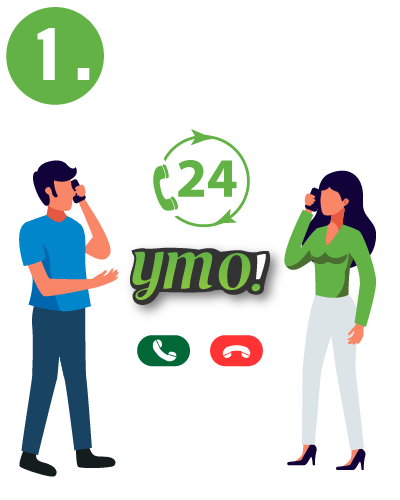
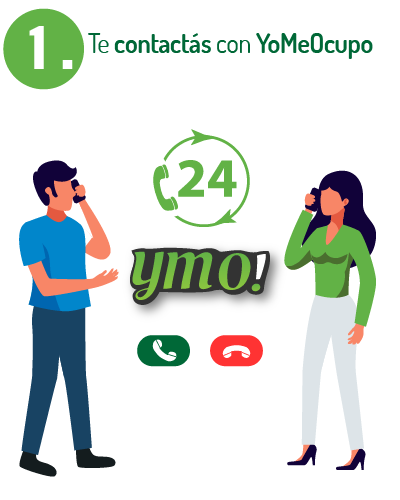
Version 1.2.4 / retouch infograf-vignete / text / contact info details

diff --git a/src/index.html b/src/index.html
@@ -50,16 +50,17 @@
                 <!--<button class="rd-navbar-toggle" data-rd-navbar-toggle=".rd-navbar-nav-wrap"><span></span></button>-->
                 <!-- RD Navbar Brand-->
                 <div class="rd-navbar-brand"> <a class="brand" href="index.html">
-                  <img class="lg-hidden" src="images/logo_ymo.png" alt="logo_yomeocupo"/>
+                  <img class="lg-hidden" src="images/logo_ymo.png" alt="logo_ymo"/>
+                  <img class="lg-hidden2" src="images/logo_yomeocupo.png" alt="logo_yomeocupo" width="600" height="auto"/>
 
                 </a></div>
               </div>
               <div class="rd-navbar-element">
                 <!-- RD Navbar Nav-->
                 <div class="rd-navbar pull-right">
-                  <a href="tel:+5491139856471"><i class="link link-social mdi mdi-phone"></i>0800</a> |
-                  <a class="big" href="mailto:info@yomeocupo.pro"><i class=" link link-social mdi mdi-email mdi-24px"></i></a> |
-                  <a href="https://wa.me/5491139856471?text=Hola,%20estoy%20navegando%20la%20web%20http://yomeocupo.pro%20y%20tengo%20una%20consulta:" target="_blank"> <i class=" link mdi mdi-whatsapp mdi-24px"></i></a>
+                  <a href="tel:08003451739"><i class="link link-social mdi mdi-24px mdi-phone"></i><strong style="font-size: 1.2em">0800</strong></a> 
+                  <a class="big" href="mailto:info@yomeocupo.pro"><i class=" link link-social mdi mdi-email mdi-24px"></i></a> 
+                  <a href="https://wa.me/5491139856471?text=Hola,%20estoy%20interesado%20en%20http://yomeocupo.pro%20y%20tengo%20una%20consulta:" target="_blank"> <i class=" link mdi mdi-whatsapp mdi-24px"></i></a>
                 </div>
               </div>
 
@@ -81,7 +82,7 @@
 
 
                 <div class="form-button form-shadow block-11 ot50">
-                  <button class="button button-block button-primary button-winona" type="submit"> <a href="https://wa.me/5491139856471?text=Hola,%20estoy%20navegando%20la%20web%20http://yomeocupo.pro%20y%20tengo%20una%20consulta:" target="_blank"> <i class="link link-social-1 mdi mdi-whatsapp"></i> Chatea con nosotros</a></button>
+                  <button class="button button-block button-primary button-winona" type="submit"> <a href="https://wa.me/5491139856471?text=Hola,%20estoy%20interesado%20en%20http://yomeocupo.pro%20y%20tengo%20una%20consulta:" target="_blank"> <i class="link link-social-1 mdi mdi-whatsapp"></i> Chatea con nosotros</a></button>
                 </div>
                 <!-- arrows -->
                 <div class="content-arrow">
@@ -112,29 +113,29 @@
         <div class="row">
 
         <div class="gallery_product col-lg-4 col-md-4 col-sm-4 col-xs-6 filter hdpe  ">
-                <img src="images/infograf-01.png" class="img-responsive"> <p>Te contactas con YoMeOcupo</p>
+                <img src="images/infograf-01.png" class="img-responsive">
             </div>
 
             <div class="gallery_product col-lg-4 col-md-4 col-sm-4 col-xs-6 filter sprinkle">
-                <img src="images/infograf-02.png" class="img-responsive"><p>Nos envias fotos y detalles de tu producto</p>
+                <img src="images/infograf-02.png" class="img-responsive">
             </div>
 
             <div class="gallery_product col-lg-4 col-md-4 col-sm-4 col-xs-6 filter hdpe">
-                <img src="images/infograf-03.png" class="img-responsive"><p>Lo publicamos en todos lados</p>
+                <img src="images/infograf-03.png" class="img-responsive">
             </div>
           </div>
         <div class="row">
 
             <div class="gallery_product col-lg-4 col-md-4 col-sm-4 col-xs-6 filter irrigation">
-                <img src="images/infograf-04.png" class="img-responsive"><p>Conseguimos al mejor comprador</p>
+                <img src="images/infograf-04.png" class="img-responsive">
             </div>
 
             <div class="gallery_product col-lg-4 col-md-4 col-sm-4 col-xs-6 filter spray">
-                <img src="images/infograf-05.png" class="img-responsive"><p>Entreg&aacute;s el producto y cobras</<p>
+                <img src="images/infograf-05.png" class="img-responsive">
             </div>
 
             <div class="gallery_product col-lg-4 col-md-4 col-sm-4 col-xs-6 filter spray">
-                <img src="images/infograf-066.png" class="img-responsive"><p>Pag&aacute;s la comisión a YoMeOcupo.</p>
+                <img src="images/infograf-066.png" class="img-responsive">
             </div>
         </div>
 
@@ -152,34 +153,28 @@
       <!-- What We Do-->
       <section class="section section-xl bg-gray-900" id="what-we-do">
         <div class="container">
-          <div class="row row-50 justify-content-center justify-content-xl-between align-items-center">
+          <div class="row row-50 justify-content-xl-between">
             <div class="col-sm-10 col-lg-5">
-              <h3>Dej&aacute;nos sistematizar tu gesti&oacute;n de Clientes</h3>
+              <h3> <span class="mdi mdi-36px mdi-account-multiple-plus "></span> Trabajamos para vos</h3>
               <!-- Bootstrap tabs-->
               <div class="tabs-custom tabs-horizontal tabs-line tabs-line_1 block-8" id="tabs-1">
                 <!-- Nav tabs-->
-                <ul class="nav nav-tabs">
-                  <li class="nav-item" role="presentation"><a class="nav-link active" href="#tabs-1-1" data-toggle="tab">|<span class="mdi mdi-account-multiple-plus"></span>Nuestro equipo</a></li>
-                  <li class="nav-item" role="presentation"><a class="nav-link" href="#tabs-1-2" data-toggle="tab">|<span class="mdi mdi-margin"></span>COMISIONES:</a></li>
-                </ul>
+                
                 <!-- Tab panes-->
                 <div class="tab-content">
                   <div class="tab-pane fade show active" id="tabs-1-1">
-                    <p class="big">Trabajamos para vos y nos encargamos de conseguirte el mejor comprador para tu producto. Somos un equipo de profesionales abocados a la comercialización de productos de particulares.</p>
+                    <p class="big">Somos un equipo de profesionales abocados a la comercialización de productos de particulares.</p>
                     <ul class="list-marked list-marked_secondary">
                       <li>No solo lo publicamos, si no que también negociamos según tus términos y necesidades.</li>
                       <li>Ponemos un equipo de 6 personas super entrenadas en ventas para buscar el cliente ideal para tu producto en el tiempo óptimo. (idealmente menos de 72hs).</li>
-                      <li>Una vez que conseguimos el cliente ideal lo contactamos con vos usando nuestras líneas para respetar tu anonimato y entre Uds. hacen la operación.</li>
+                      <li>Una vez que conseguimos el cliente ideal lo contactamos con vos usando nuestras líneas para respetar tu anonimato y entre ustedes hacen la operación.</li>
                       </li>
                     </ul>
-                  </div>
-                  <div class="tab-pane fade" id="tabs-1-2">
-                    <p class="big">Concretada la transacción, celebramos la venta y liquidamos la comisión, según la siguiente tabla.</p>
-                    <p>TABLA DE COMISIONES:</p></br>
-                    <ul class="list-marked_secondary font-weight-bold" style="list-style: none">
-                      <li class="bg-info mark">|Valor menor a $15mil &nbsp <span class="mdi mdi-chevron-double-right"></span> 10% </li>
-                      <li class="bg-success mark">|de $15mil a $50mil <span class="mdi mdi-chevron-double-right"> </span> &nbsp5% </li>
-                      <li class="bg-dark mark">|Mayor a $50mil <span class="mdi mdi-chevron-double-right"> </span> &nbsp2% </li>
+                    <p>Concretada la transacción, celebr&aacutes la venta y liquidamos la comisión, según la siguiente tabla:</p></br>
+                    <ul class="list-marked_secondary" style="list-style: none">
+                      <li class="bg-info mark">|Si el Valor de tú producto es <strong>menor a $15mil &nbsp <span class="mdi mdi-chevron-double-right"></span> Pagás 10%</strong></li>
+                      <li class="bg-success mark">|Si el valor de tú producto es <strong>mayor a $15mil y menor a $50mil <span class="mdi mdi-chevron-double-right"> </span> Pagás 5% </strong> </li>
+                      <li class="bg-dark mark">|Productos con valor <strong>Mayor a $50mil <span class="mdi mdi-chevron-double-right"> </span> Pagás 2% </strong></li>
                       </ul></br>
                       <p class="big">Lo que abonas lo calculás del porcentaje que corresponde al valor de tú producto vendido.</p>
                   </div>
@@ -198,18 +193,16 @@
       <footer class="section footer-classic">
         <div class="footer-classic-main">
           <div class="container">
-                <div class="col-sm-6 col-lg-6 col-xl-6">
-                <p></p>
+                <div class="col-lg-12 col-xl-12">
+                  <a class="" href="tel:08003451739"> <span class="center text-primary mdi mdi-18px mdi-phone"></span></a>
+                  <a class="big xs-hidden" href="tel:08003451739"> (0800)-345-1739 </a> <span class="xs-hidden">|</span>
+                
+                  <a href="mailto:info@yomeocupo.pro" target="_blank"><span class="center text-primary mdi mdi-18px mdi-email"></span></a>
+                  <a class="big xs-hidden" href="mailto:info@yomeocupo.pro" target="_blank"> info@yomeocupo.pro</a> <span class="xs-hidden">|</span>
+                
+                  <a href="https://wa.me/5491139856471?text=Hola,%20estoy%20interesado%20en%20http://yomeocupo.pro%20y%20tengo%20una%20consulta:" target="_blank"> <span class="center text-primary mdi mdi-18px mdi-whatsapp"></span></a>
+                  <a class="big xs-hidden" href="https://wa.me/5491139856471?text=Hola,%20estoy%20interesado%20en%20http://yomeocupo.pro%20y%20tengo%20una%20consulta:" target="_blank"> (11)-3985-6471</a>
                 </div>
-                <div class="col-lg-4 col-xl-12"></div>
-
-                <div class="col-lg-4 col-xl-12">
-                  <span class="center icon icon-sm text-primary mdi mdi-phone"></span>
-                  <a class="big" href="tel:08003451739"> 0800(YoMeOcupo)</a> |
-                  <span class="center icon icon-sm text-primary mdi mdi-email"></span> 
-                  <a class="big" href="mailto:info@yomeocupo.pro" target="_blank"> info@yomeocupo.pro</a> |
-                  <span class="center icon icon-sm text-primary mdi mdi-whatsapp"></span>
-                  <a class="big" href="https://wa.me/5491139856471?text=Hola,%20estoy%20navegando%20la%20web%20http://yomeocupo.pro%20y%20tengo%20una%20consulta:" target="_blank"> +11-39853-234-65</a></div>
 
             </div>
                 <!--<div class="col-lg-4 center group group-xs"></div>

diff --git a/src/css/style.css b/src/css/style.css
@@ -567,11 +567,11 @@ p [style*='max-width'] {
 
 /*
 * Links
-*/
+
 a {
 	transition: all 0.3s ease-in-out;
 }
-
+*/
 a, a:focus, a:active, a:hover {
 	text-decoration: none;
 }
@@ -581,7 +581,7 @@ a, a:focus, a:active {
 }
 
 a:hover {
-	color: #1abc9c;
+	color: #3d3d3d;
 }
 
 a[href*='tel'], a[href*='mailto'] {
@@ -589,7 +589,7 @@ a[href*='tel'], a[href*='mailto'] {
 }
 
 .link-hover {
-	color: #16a085;
+	color: #3d3d3d;
 }
 
 .link-press {
@@ -610,7 +610,7 @@ a[href*='tel'], a[href*='mailto'] {
 }
 
 .link-default:hover {
-	color: #1abc9c;
+	color: #3d3d3d;
 }
 
 .link-social-1 {
@@ -1206,7 +1206,7 @@ div.box-custom-2 {
 	.box-custom-2-bg {
 		top: -48%;
 		right: -52%;
-		bottom: -10%;
+		bottom: 0;
 		margin-right: 0;
 		border: 1px solid transparent;
 	}
@@ -8921,10 +8921,10 @@ html [class*='section-'].section-bottom-0 {
 		padding: 100px 0 25px;
 	}
 	.section-xl {
-		padding: 111px 0 115px;
+		padding: 60px 0 60px;
 	}
 	.section-xxl {
-		padding: 127px 0 127px;
+		padding: 80px 0 110px;
 	}
 }
 
@@ -10920,7 +10920,7 @@ html:not(.lt-ie10) .not-animated {
 	overflow: hidden;
 	text-align: center;
 	text-decoration: none;
-	transition: .45s all ease-in-out;
+	/*transition: .45s all ease-in-out;*/
 	transform: translate3d(0, 100px, 0);
 }
 
@@ -11546,7 +11546,7 @@ html.tablet .ui-to-top {
 	right: 0;
 	z-index: 1080;
 	background: #ffffff;
-	padding: 10px;
+	padding: 12px;
 }
 
 .rd-navbar-static .rd-navbar--has-dropdown {
@@ -11576,7 +11576,7 @@ html.tablet .ui-to-top {
 }
 
 .rd-navbar-fixed .rd-navbar-brand img {
-	max-width: 100px;
+	max-width: 150px;
 	max-height: 50px;
 	width: auto;
 	height: auto;
@@ -11584,7 +11584,7 @@ html.tablet .ui-to-top {
 
 @media (max-width: 575px) {
 	.rd-navbar-fixed .rd-navbar-brand img {
-		max-width: 100px;
+		max-width: 150px;
 	}
 }
 
@@ -18615,6 +18615,7 @@ body:not(.lg-from-hash) .lg-outer.lg-start-zoom .lg-item.lg-complete .lg-object 
 	.xs-hidden {
 		display:none;
 	}
+	
 }
 
 @media (max-width: 768px ) {
@@ -18622,10 +18623,14 @@ body:not(.lg-from-hash) .lg-outer.lg-start-zoom .lg-item.lg-complete .lg-object 
 		display:none;
 	}
 
+
 }
 
 @media (min-width: 767.99px) {
 	.lg-hidden1 {
+		display:none;
+	}
+	.lg-hidden2 {
 		display:none;
 	}
 }
@@ -18642,7 +18647,7 @@ body:not(.lg-from-hash) .lg-outer.lg-start-zoom .lg-item.lg-complete .lg-object 
  }
 
  .animatedColor {
-	color: #34495e;
+	color: #3d3d3d;
   }
 
   .arrow {
@@ -18653,7 +18658,7 @@ body:not(.lg-from-hash) .lg-outer.lg-start-zoom .lg-item.lg-complete .lg-object 
 
   .arrow:hover{
 	animation:arrow 1s ease-out infinite !important;
-	color: rgb(22, 160, 133) !important;
+	color: #3d3d3d !important;
   }
 
   /*animación*/

diff --git a/src/css/bootstrap.css b/src/css/bootstrap.css
@@ -669,7 +669,7 @@ pre code {
 
 .col-8 {
 	flex: 0 0 66.66667%;
-	max-width: 66.66667%;
+	max-width: 90.66667%;
 }
 
 .col-9 {
